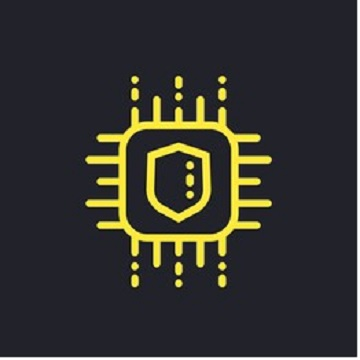
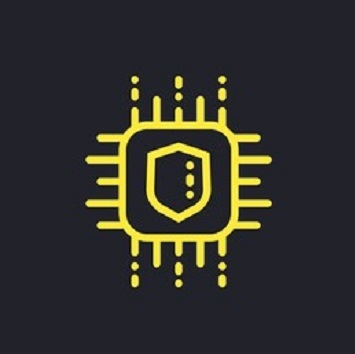
added pictures and updated look

Changed region(s): [[0.2169, 0.1864, 0.7746, 0.839], [0.0, 0.0, 1.0, 1.0]]

diff --git a/index.html b/index.html
@@ -14,7 +14,7 @@
 
 					<!-- Logo -->
 						<div id="logo">
-							<span class="image avatar48"><img src="images/Project1.jpg" alt="" /></span>
+							<span class="image avatar48"><img src="images/portFolioPic.jpg" alt="" /></span>
 							<h1 id="title">Brandon Soledad</h1>
 							<p>New Graduate</p>
 						</div>
@@ -52,8 +52,8 @@
 						<div class="container">
 
 							<header>
-								<h2 class="alt">Hi! I'm <strong>Brandon</strong>, welcome to my portfolio</a><br />
-								You can check out my work below</a>.</h2>
+								<h2 class="alt"><strong>Hi! I'm Brandon, welcome to my portfolio</a><br />
+								You can check out my work below</strong></a>.</h2>
 							</header>
 						</div>
 					</section>
@@ -63,7 +63,7 @@
 						<div class="container">
 
 							<header>
-								<h2>Portfolio</h2>
+								<h2 style="color:rgb(0, 0, 0);"><u>Projects</u></h2>
 							</header>
 							<div class="row">
 								<div class="col-4 col-12-mobile">
@@ -71,7 +71,7 @@
 										<a href="https://larryj6029.github.io/GameDev/" target = "_blank" 
 										rel = "noopener noreferrer" class="image fit"><img src="images/Project1.jpg" alt="" /></a>
 										<header>
-											<h3>Ninja's vs Zombies</h3>
+											<h3 style="color: rgb(0, 0, 0)">Ninja's vs Zombies</h3>
 										</header>
 									</article>
 								</div>
@@ -80,14 +80,14 @@
 										<a href="https://github.com/Brandon-Soledad/CryptographicApp" target = "_blank" 
 										rel = "noopener noreferrer" class="image fit"><img src="images/LockUnlock.jpg" alt="" /></a>
 										<header>
-											<h3>Cryptographic Encryptor/Decryptor</h3>
+											<h3 style="color: rgb(0, 0, 0)">Cryptographic Encryptor/Decryptor</h3>
 										</header>
 									</article>
 									<article class="item">
 										<a href="https://github.com/Brandon-Soledad/VantagePro-Sensor-Suite-software" target = "_blank" 
-										rel = "noopener noreferrer" class="image fit"><img src="images/UVSolarRadiationScreenshot.png" alt="" /></a>
+										rel = "noopener noreferrer" class="image fit"><img src="images/SensorSuiteProject.jpg" alt="" /></a>
 										<header>
-											<h3>Sensor Suite</h3>
+											<h3 style="color: rgb(0, 0, 0)">Sensor Suite</h3>
 										</header>
 									</article>
 								</div>
@@ -96,7 +96,7 @@
 										<a href="https://github.com/Brandon-Soledad/A.I-Pentago" target = "_blank" 
 										rel = "noopener noreferrer" class="image fit"><img src="images/BoardPic.jpg" alt="" /></a>
 										<header>
-											<h3>Pentago A.I</h3>
+											<h3 style="color: rgb(0, 0, 0)">Pentago A.I</h3>
 										</header>
 									</article>
 								</div>
@@ -107,17 +107,24 @@
 
 				<!-- About Me -->
 					<section id="about" class="three">
-						<div class="container">
+						<div text-align="left" class="container">
 
 							<header>
-								<h2>About Me</h2>
+								<h2 style="color: black;"><u>About Me</u></h2>
 							</header>
 
-							<a href="#" class="image featured"><img src="images/pic08.jpg" alt="" /></a>
+							<a class="imageround"><img src="images/portFolioPic.jpg" alt="" /></a>
 
 							<p>Hi! I'm Brandon, I am a recent University of Washington graduate aspiring to be a Software Engineer.
 								I enjoy learning about different technologies and doing fun and creative things with JavaScript, Java, and Python.
 							</p>
+
+							<header>
+								<h2 style="color: black;"><u>Education</u></h2>
+								<p><b>University of Washington - BS in Computer Science</b> 
+									
+								</p>
+							</header>
 
 						</div>
 					</section>
@@ -160,9 +167,7 @@
 			<div id="footer">
 
 				<!-- Copyright -->
-					<ul class="copyright">
-						<li>&copy; Untitled. All rights reserved.</li>
-					</ul>
+					
 
 			</div>
 

diff --git a/assets/css/main.css b/assets/css/main.css
@@ -171,7 +171,7 @@ input, select, textarea {
 	}
 
 		a:hover {
-			color: #3519b4;
+			color: #ffffff;
 			border-bottom-color: rgba(255, 255, 255, 0);
 		}
 
@@ -2011,7 +2011,7 @@ ul.icons {
 	}
 
 		.item header {
-			background: #fff;
+			background: rgb(255, 255, 255);
 			margin: 0;
 			padding: 1em 0 1em 0;
 			font-size: 0.8em;
@@ -2117,7 +2117,7 @@ ul.icons {
 			}
 
 				#header .icons a:hover {
-					color: #3519b4;
+					color: #ffffff;
 				}
 
 	#logo {
@@ -2195,7 +2195,7 @@ ul.icons {
 				}
 
 					#nav ul li a.active span:before {
-						color: #3519b4;
+						color: #ffffff;
 					}
 
 /* Footer */
@@ -2203,7 +2203,7 @@ ul.icons {
 	#footer {
 		margin-left: 375px;
 		text-align: center;
-		background-color: #dce3e2;
+		background-color: #000000;
 		padding: 3em 0 4em 0;
 		box-shadow: inset 0 1px 0 0 rgba(0, 0, 0, 0.05), inset 0 0.1em 0.1em 0 rgba(0, 0, 0, 0.025);
 		font-size: 0.8em;
@@ -2227,6 +2227,11 @@ ul.icons {
 					padding-left: 0;
 					margin-left: 0;
 				}
+	.imageround {
+		border-radius: 50%;
+	}
+
+	
 
 /* Main */
 
@@ -2240,7 +2245,7 @@ ul.icons {
 			padding: 4em 0;
 			box-shadow: inset 0 1px 0 0 rgba(0, 0, 0, 0.05), inset 0 0.1em 0.1em 0 rgba(0, 0, 0, 0.025);
 			text-align: center;
-			background-image: url("images/BackgroundImage.jpg");
+			background-image: url("images/blackbackground.jpg");
 		}
 
 			#main > section.dark {
@@ -2263,7 +2268,7 @@ ul.icons {
 				}
 
 					#main > section.dark a:hover {
-						border-bottom-color: rgba(255, 255, 255, 0);
+						border-bottom-color: rgb(255, 255, 255);
 					}
 
 			#main > section.cover {
@@ -2274,11 +2279,11 @@ ul.icons {
 
 			#main > section.one {
 				background-color: #81918E;
-				background-image: url("../../images/BackgroundImage.jpg");
+				background-image: url("../../images/blackbackground.jpg");
 			}
 
 			#main > section.two {
-				background-color: #f5fafa;
+				background-color: rgb(255, 255, 255);
 			}
 
 			#main > section.three {
@@ -2286,7 +2291,7 @@ ul.icons {
 			}
 
 			#main > section.four {
-				background-color: #e8edec;
+				background-color: #363636;
 			}
 
 /* Wide */
